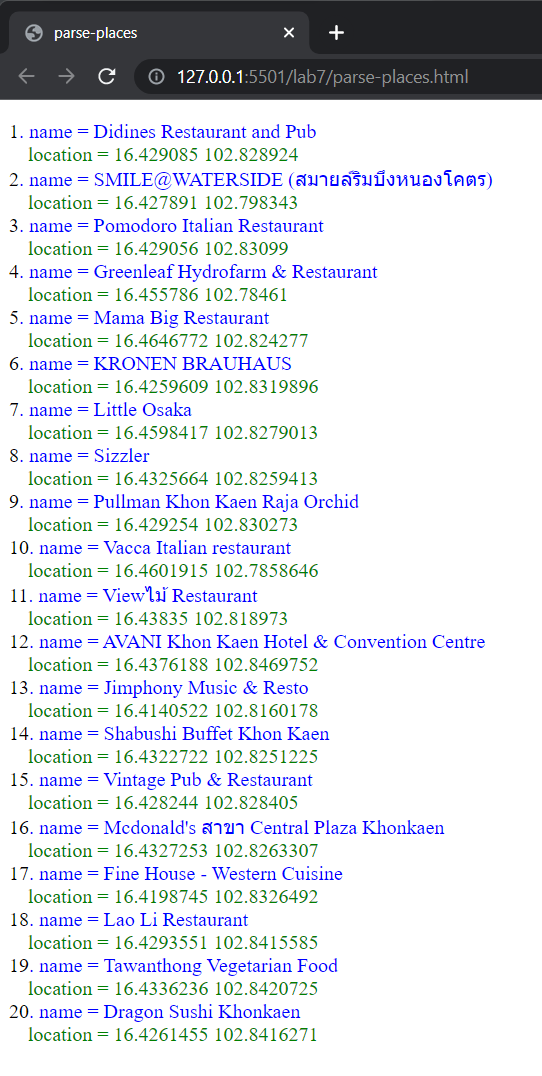
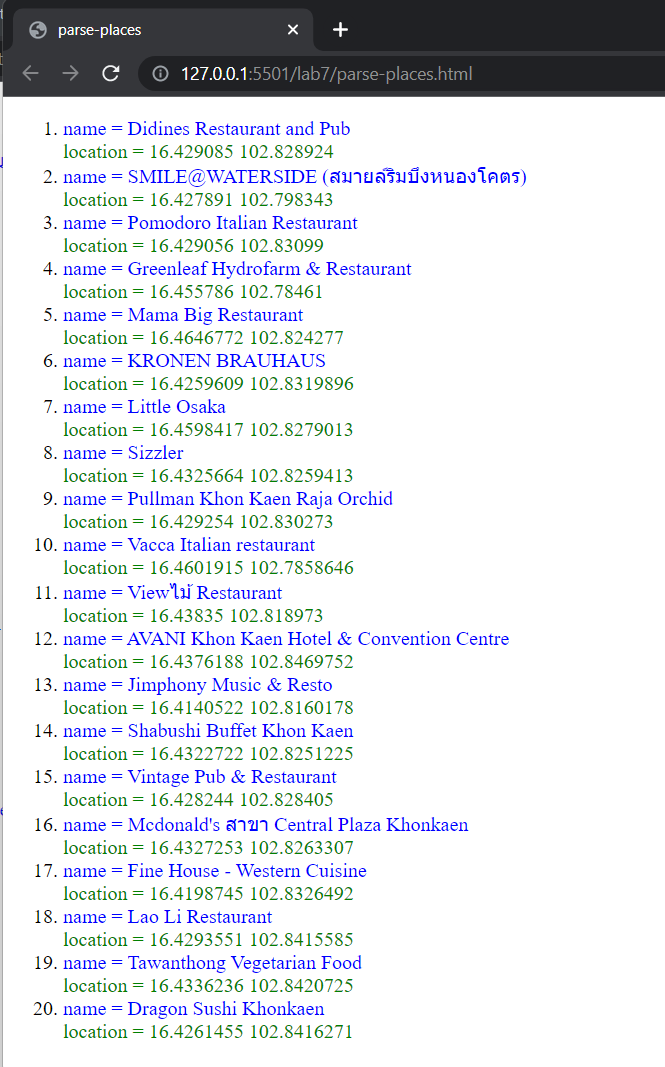
add lab7

Changed region(s): [[0.0, 0.0, 0.9151, 1.0], [0.5018, 0.0, 0.5314, 0.0309]]

diff --git a/lab7/parse-places.html b/lab7/parse-places.html
@@ -7,7 +7,6 @@
     <style>
         .tap{
             color:  green;
-            margin-left: 15px;
         }
         .name{
             color: blue;
@@ -15,21 +14,19 @@
     </style>
 </head>
 <body>
-    <p id="content"></p>
+    <ol id="content"></ol>
     <script>
         fetch("/lab7/places.json")
         .then((response) => response.json())
         .then((data) => {
             let results = data.results;
-            let num = 1;
             let text = document.getElementById("content");
             for (let place of results){
                 text.innerHTML +=
-                    num + "<span class='name'>" +". name = " + place.name + "</span>" + "<br/>" +
+                    "<li>" + "<span class='name'>" +"name = " + place.name + "</span>" + "<br/>" +
                     "<span class='tap'>" + "location = " + place.geometry["location"].lat + 
                     " " + place.geometry["location"].lng + "</span>" + 
-                    "<br/>"
-                    num++;
+                    "</li>"
             }
         });
     </script>

diff --git a/lab7/parse-students-file.html b/lab7/parse-students-file.html
@@ -7,23 +7,21 @@
   </head>
   <body>
     <h1>Reading Students Information</h1>
-    <p id="content"></p>
+    <ol id="content"></ol>
     <script>
       fetch("/lab7/students.json")
         .then((response) => response.json())
         .then((data) => {
             const wclass = data.wclass;
-            let num = 1;
             let text = document.getElementById("content");
             for (let students of wclass){
               text.innerHTML +=
-                    num + ". " +
+                    "<li>" +
                     students.student["@attributes"].id +
                     " <b>" + students.student.name + "</b> " +
                     " has skills " +
                     " <i>" + students.student.skill +  "</i> " +
-                    "<br/>"
-                    num++;
+                    "</li>"
             }
         });
     </script>

diff --git a/lab7/fetch-jsonplacehodler.html b/lab7/fetch-jsonplacehodler.html
@@ -4,15 +4,10 @@
     <meta charset="UTF-8">
     <meta name="viewport" content="width=device-width, initial-scale=1.0">
     <title>fetch-jsonplacehodler</title>
-    <style>
-        .tap{
-            margin-left: 25px;
-        }
-    </style>
 </head>
 <body>
     <h1>List of User Titles</h1>
-    <p id="content"></p>
+    <ol id="content"></ol>
     <script>
         fetch('https://jsonplaceholder.typicode.com/posts')
         .then((response) => response.json())
@@ -21,9 +16,7 @@
             let text = document.getElementById("content");
             for (let user of data){
                 text.innerHTML += 
-                "<span class='tap'>" + num + ". " + user.title + 
-                "</span>"+ "<br/>";
-                num++;
+                "<li>" + user.title + "</li>";
             }
         });
     </script>
